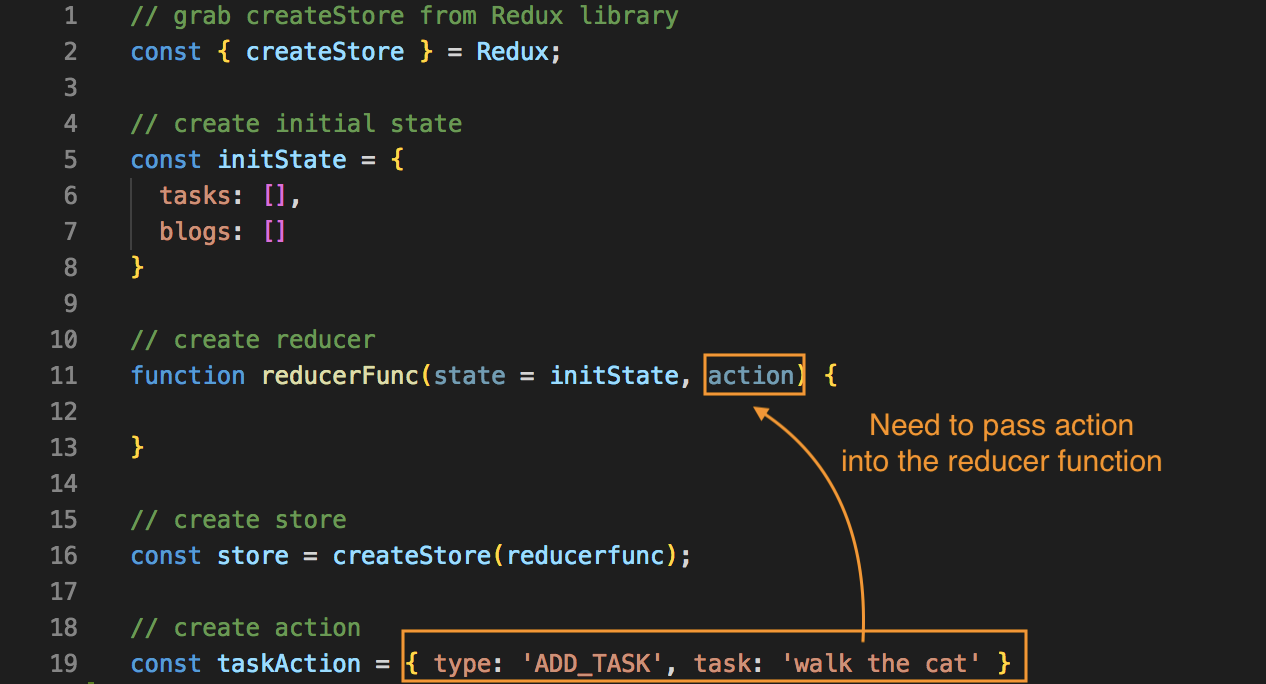
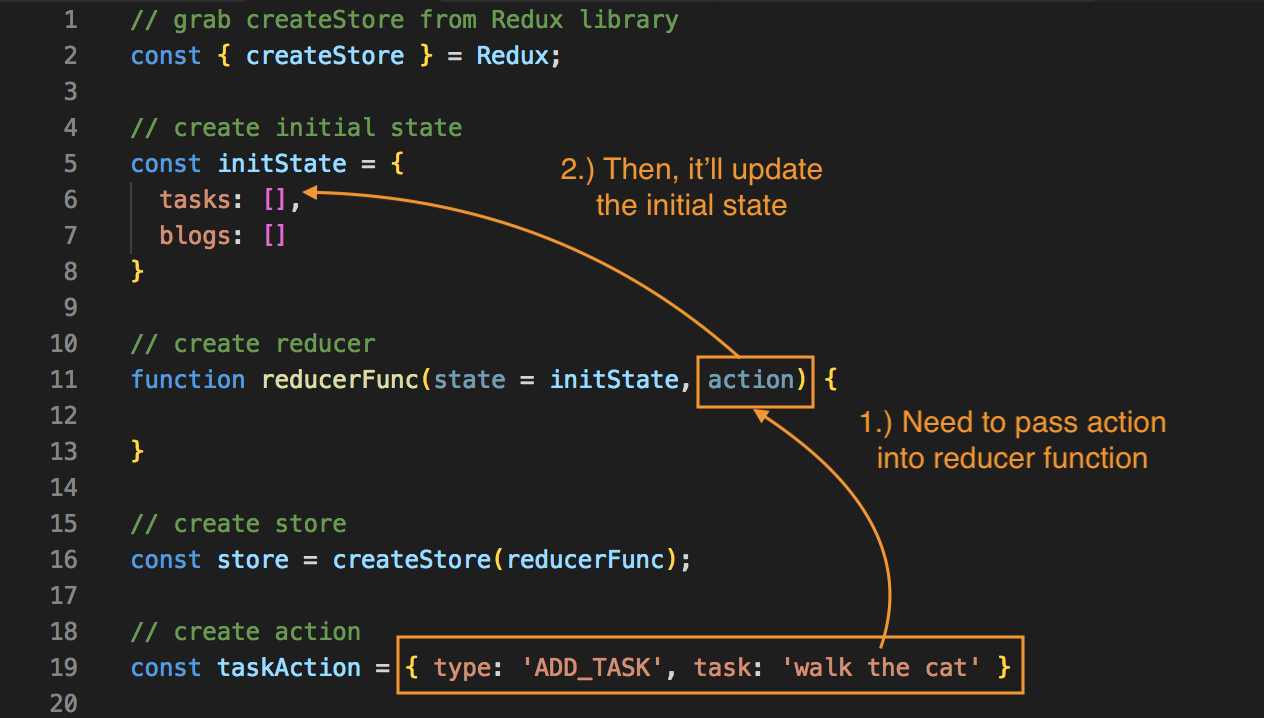
Explain the process of action to reducer and to update state

diff --git a/30_redux/README.md b/30_redux/README.md
@@ -27,10 +27,7 @@ const { createStore } = Redux;
 
 Then, create a **store** and make it equal to ```createStore``` which we grab from ```const { createStore } = Redux``` and then invoke that function bc ```createStore()``` is a function.
 
-**app.js**
-```
-const store = createStore();
-```
+<kbd>![alt text](img/createstore.png "screenshot")</kbd>
 
 Remember that the **store** is tightly coupled with a **reducer**, and we pass a reducer into the store as a parameter, so that we know that those two are linked together. And, the store knows which reducer is going to be interacting with it. So, we need to pass a reducer to ```createStore()``` as a parameter.
 
@@ -81,27 +78,9 @@ When this reducer fires, it's going to notice that we don't have a state, that's
 
 We have now, our reducer function set with an initial state, and we've also passed it into the ```createStore(reducerFunc)``` method on ```const store```, and the ```reducerFunc``` is going to interact with it.
 
+<kbd>![alt text](img/reducer.png "screenshot")</kbd>
+
 # Redux Actions
-
-**app.js**
-```
-// grab createStore from Redux library
-const { createStore } = Redux;
-
-// create initial state
-const initState = {
-  tasks: [],
-  blogs: []
-}
-
-// create reducer
-function reducerFunc(state = initState, action) {
-
-}
-
-// create store
-const store = createStore(reducerfunc);
-```
 
 We have our ```store``` created with the ```createStore()``` method and we pass in ``````reducerFunc``` as its parameter, so the ```store``` knows which reducer is going to interact with it.
 
@@ -118,6 +97,8 @@ For example, if we create a new action here, we'll store this in a ```const``` a
 const taskAction = { type: 'ADD_TASK', task: 'walk the cat' }
 ```
 
-What's happening here is that we're creating an ```action```, which we're going to pass into the ```reducer``` function.
+What's happening here is that we're creating an ```action```, which we're going to pass into the ```reducer``` function, we're dispatching it into the reducer function. 
 
 <kbd>![alt text](img/action.png "screenshot")</kbd>
+
+The reducer will take that action, read and see what it's supposed to do, then it'll know it has to add a new task to the state in initState, and the task it needs to add is 'walk the cat'.
